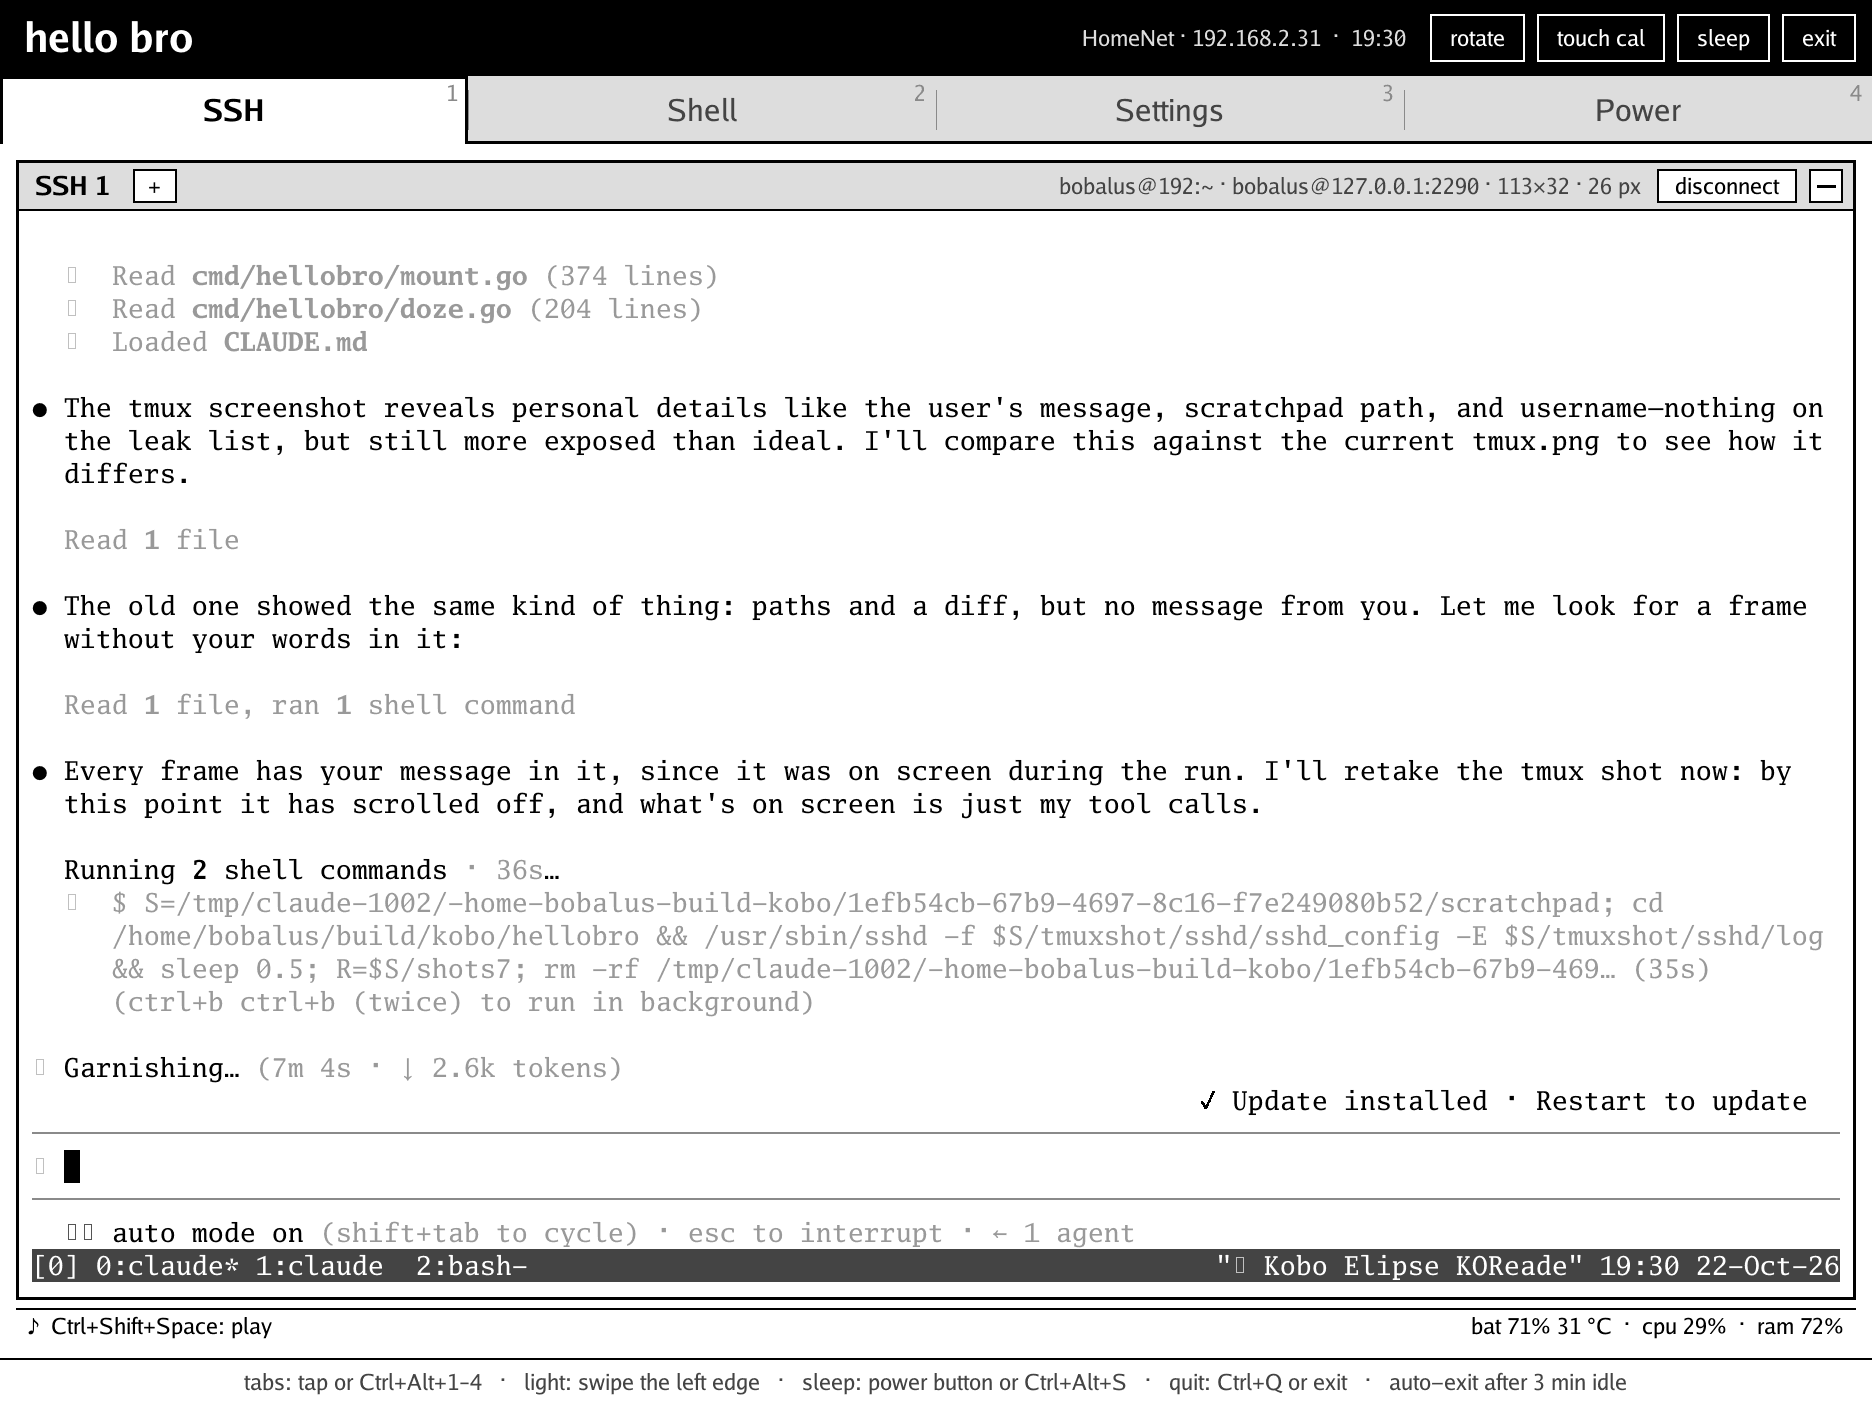
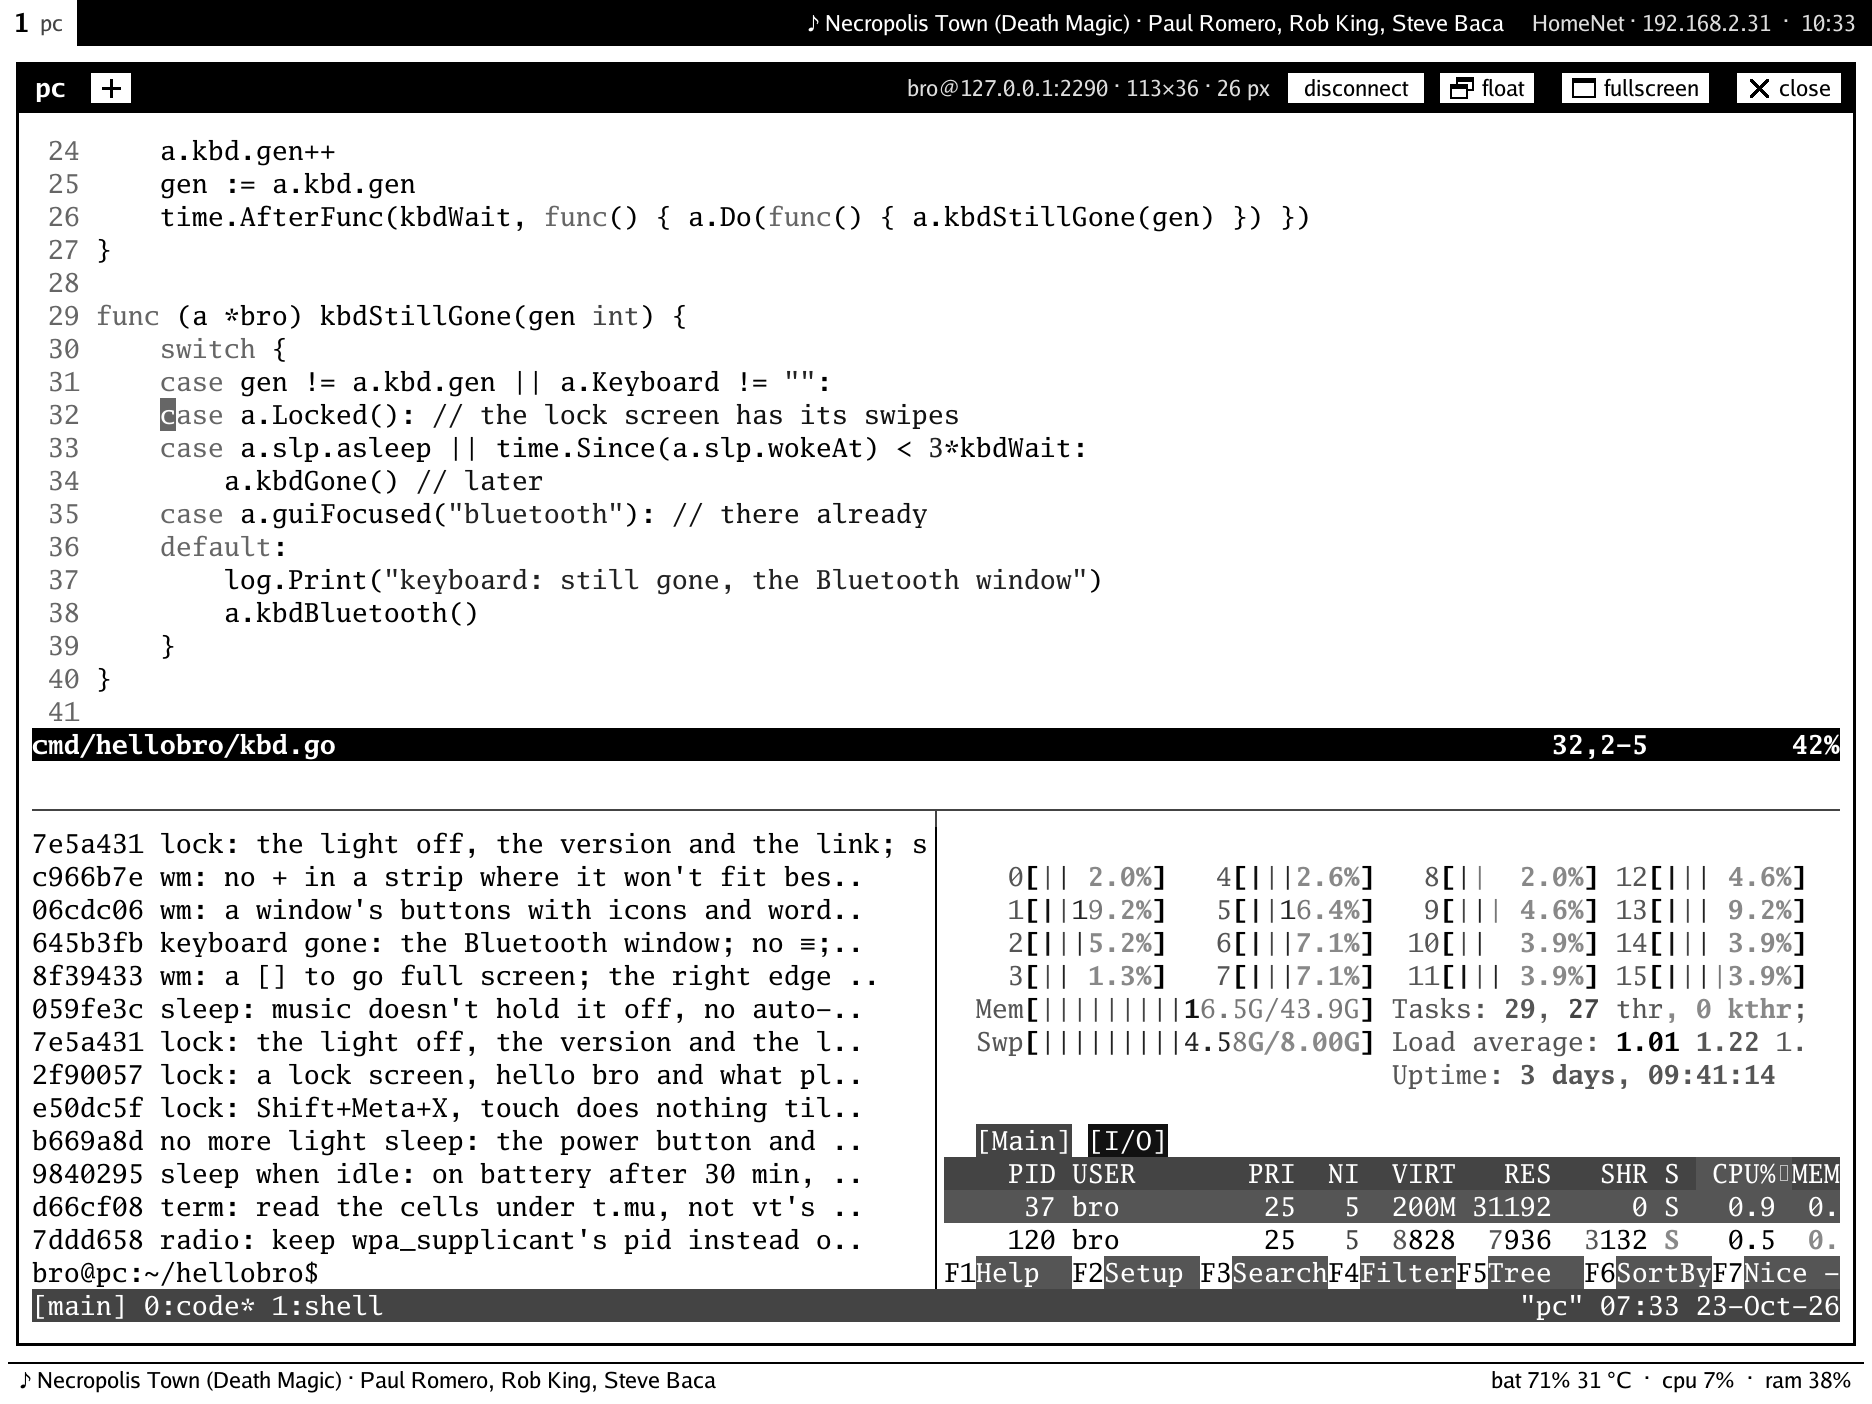
docs: the terminal screenshots again, from a stand-in PC
tmux (vim, git log, htop), btop, ncmpcpp on mpd (in cmus's place) and
the test server, with the bar, the window buttons and the status bar as
they are now. They're taken in a throwaway container (harness/shots:
sshd, mpd and mpd-mpris, the test server) as user bro on host pc, so the
PC's own user, host name and address stay out of them, as they didn't
before.

Claude-Session: https://claude.ai/code/session_01N3RUhfqaxJS3VBKDvmz6kU

Changed region(s): [[0.0, 0.0, 1.0, 1.0], [0.8056, 0.4288, 0.8985, 0.4594], [0.9295, 0.4288, 0.9605, 0.4594]]

diff --git a/harness/feeds/ncmpcpp.py b/harness/feeds/ncmpcpp.py
@@ -1,0 +1,14 @@
+# For a screenshot: saved host 1 (APP_EXTRA's ssh.conf: an sshd with mpd
+# playing, say in a container whose session bus HELLOBRO_MPRIS_BUS names,
+# mpd-mpris on it), ncmpcpp there, then q.
+# app: hellobro
+import os, sys
+sys.path.insert(0, os.path.dirname(os.path.dirname(os.path.abspath(__file__))))
+from feedlib import *
+
+start()
+keys("3"); key(ENTER); time.sleep(5)                 # saved host 1: a login shell
+keys("ncmpcpp\n"); time.sleep(12)                    # the playlist, a track playing
+keys("q"); time.sleep(2)
+keys("exit\n"); time.sleep(2)
+exit_app()

diff --git a/docs/development.md b/docs/development.md
@@ -109,7 +109,8 @@ fake input devices, Nickel settings and frontlight stand in for the rest:
     TIMEOUT=650 harness/run.sh /tmp/hb 1 sleepidle    # sleep when idle: the toast, a key keeping it awake, sleep
     APP_EXTRA=dir harness/run.sh /tmp/hb 1 tmux       # saved host 1 (dir/ssh.conf, dir/id_ed25519): tmux attach, framed and fullscreen
     APP_EXTRA=dir harness/run.sh /tmp/hb 1 btop       # the same, btop
-    CMUS=cmd HELLOBRO_MPRIS_BUS=addr harness/run.sh /tmp/hb 0 cmus  # cmd (cmus, say in a container with music) in a shell, a track playing
+    APP_EXTRA=dir HELLOBRO_MPRIS_BUS=addr harness/run.sh /tmp/hb 0 ncmpcpp  # the same, ncmpcpp on mpd, a track playing
+    harness/shots/run.sh /tmp/shots MUSIC             # a container for those (user bro on host pc), the README's: see it
     harness/relay.sh /tmp/hb                           # the relay: sshd as the VPS, both ways through it, an update (with the server)
 
 `MPRIS=1` starts a session bus in `OUT/bus` with a stand-in mpv on it

diff --git a/README.md b/README.md
@@ -4,12 +4,12 @@ A terminal, a Linux in your pocket and a way in for your computer, on a
 Kobo e-reader. Bring a Bluetooth keyboard.
 
 <p align="center">
-  <img src="docs/screenshots/tmux.png" width="48.5%" alt="Claude Code in tmux on the PC, over SSH">
+  <img src="docs/screenshots/tmux.png" width="48.5%" alt="vim, git log and htop in tmux on a PC, over SSH">
   <img src="docs/screenshots/btop.png" width="48.5%" alt="btop on the PC, over SSH">
 </p>
 <p align="center">
   <img src="docs/screenshots/ssh.png" width="48.5%" alt="An SSH session">
-  <img src="docs/screenshots/cmus.png" width="48.5%" alt="cmus in a shell, the status bar showing what plays">
+  <img src="docs/screenshots/ncmpcpp.png" width="48.5%" alt="ncmpcpp on mpd, the bar and the status bar showing what plays">
 </p>
 <p align="center">
   <img src="docs/screenshots/tiling.png" width="48.5%" alt="Wi-Fi, Sharing, Bluetooth and Settings, tiled">
